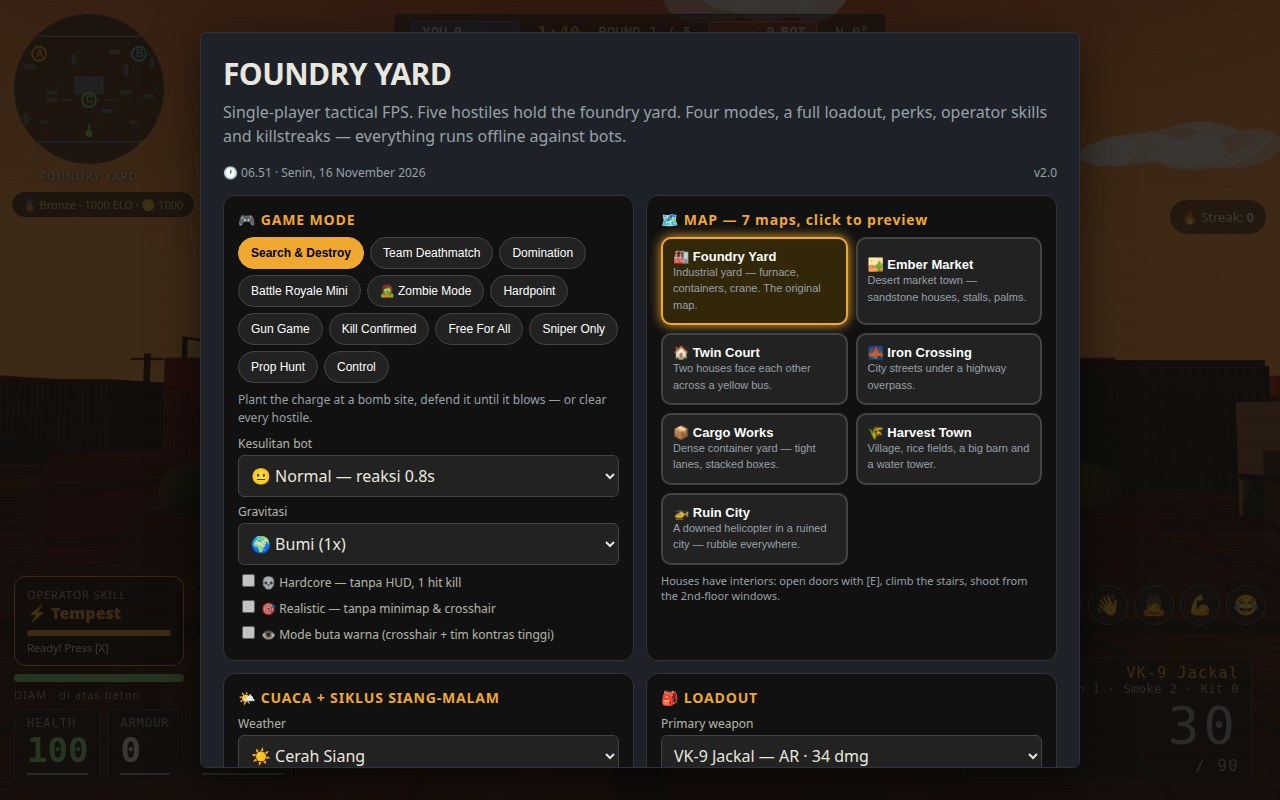
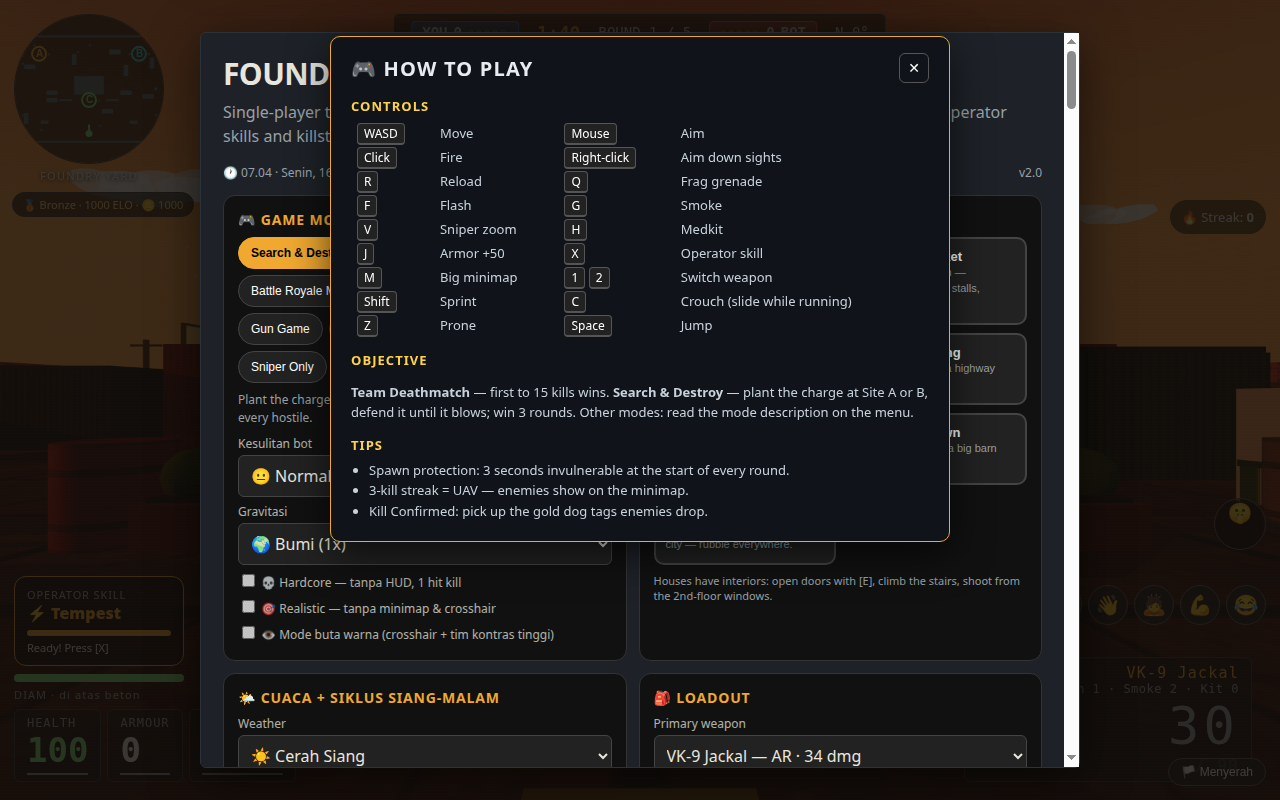
Tutorial: HOW TO PLAY panel + round-1 hints
- Start menu: HOW TO PLAY button (built in hud.js, no index.html change)
  opens a panel with full controls (WASD/mouse/R/Q/F/G/V/H/J/X/M/1-2/
  Shift/C/Z/Space), TDM first-to-15 + S&D plant/defuse objectives, and
  3 tips (3s spawn protection, 3-kill UAV, KC dog tags). Overlay is
  click-through so PLAY stays reachable; closes via X, Esc, or toggle.
- Round-1-only contextual toasts (one at a time, 4s, dismissible X):
  'WASD to move' at round start, 'Click to shoot - R to reload' when
  the first enemy is in view, 'Q for grenade - X for skill' mid-round.
  Never in round 2+. Suppressed in screenshot staging (?shot=) so
  dossier frames stay clean.
- Self-test section 46: 14 new checks, 329/329 total.
- Dossier text unchanged 163,829/163,840 (0 bytes added to the slice).
- Correction: prone is Z, not Ctrl (brief said Ctrl; player.js:19 wins).

diff --git a/game/src/hud.js b/game/src/hud.js
@@ -75,6 +75,108 @@ export function createHud(S) {
   let wheelSel = 0;
   function show(node, on) { if (node) node.hidden = !on; }
   function fmtTime(s) { s = Math.max(0, Math.ceil(s)); return `${Math.floor(s / 60)}:${String(s % 60).padStart(2, '0')}`; }
+  // ---- Tutorial: HOW TO PLAY panel + round-1 hints ----
+  // Built here (hud.js is outside the dossier text slice) so index.html /
+  // main.js stay untouched. The overlay is pointer-events:none with only
+  // the card interactive, so the PLAY button stays clickable while the
+  // panel is open. Hints are suppressed in screenshot staging (?shot=
+  // start/play/buy/end) — the staging harness is not a first-time player —
+  // but run in ?shot=test so the self-test can drive them.
+  const shotParam = new URLSearchParams(location.search).get('shot');
+  const tutHintsOff = !!shotParam && shotParam !== 'test';
+  const tutBtn = document.createElement('button');
+  tutBtn.id = 'howto-btn';
+  tutBtn.type = 'button';
+  tutBtn.className = 'cta howto-btn';
+  tutBtn.textContent = '❓ HOW TO PLAY';
+  const playBtn = $('play');
+  if (playBtn && playBtn.parentNode) playBtn.parentNode.insertBefore(tutBtn, playBtn);
+  const tutOverlay = document.createElement('div');
+  tutOverlay.id = 'howto-overlay';
+  tutOverlay.hidden = true;
+  tutOverlay.innerHTML = `<div id="howto-panel" role="dialog" aria-label="How to play">
+    <div class="howto-head"><h2>🎮 HOW TO PLAY</h2><button id="howto-close" type="button" aria-label="Close">✕</button></div>
+    <h3>CONTROLS</h3>
+    <table class="howto-keys">
+      <tr><td><kbd>WASD</kbd></td><td>Move</td><td><kbd>Mouse</kbd></td><td>Aim</td></tr>
+      <tr><td><kbd>Click</kbd></td><td>Fire</td><td><kbd>Right-click</kbd></td><td>Aim down sights</td></tr>
+      <tr><td><kbd>R</kbd></td><td>Reload</td><td><kbd>Q</kbd></td><td>Frag grenade</td></tr>
+      <tr><td><kbd>F</kbd></td><td>Flash</td><td><kbd>G</kbd></td><td>Smoke</td></tr>
+      <tr><td><kbd>V</kbd></td><td>Sniper zoom</td><td><kbd>H</kbd></td><td>Medkit</td></tr>
+      <tr><td><kbd>J</kbd></td><td>Armor +50</td><td><kbd>X</kbd></td><td>Operator skill</td></tr>
+      <tr><td><kbd>M</kbd></td><td>Big minimap</td><td><kbd>1</kbd> <kbd>2</kbd></td><td>Switch weapon</td></tr>
+      <tr><td><kbd>Shift</kbd></td><td>Sprint</td><td><kbd>C</kbd></td><td>Crouch (slide while running)</td></tr>
+      <tr><td><kbd>Z</kbd></td><td>Prone</td><td><kbd>Space</kbd></td><td>Jump</td></tr>
+    </table>
+    <h3>OBJECTIVE</h3>
+    <p><b>Team Deathmatch</b> — first to 15 kills wins. <b>Search &amp; Destroy</b> — plant the charge at Site A or B, defend it until it blows; win 3 rounds. Other modes: read the mode description on the menu.</p>
+    <h3>TIPS</h3>
+    <ul>
+      <li>Spawn protection: 3 seconds invulnerable at the start of every round.</li>
+      <li>3-kill streak = UAV — enemies show on the minimap.</li>
+      <li>Kill Confirmed: pick up the gold dog tags enemies drop.</li>
+    </ul>
+  </div>`;
+  (el.menu || document.body).appendChild(tutOverlay);
+  const tutToast = document.createElement('div');
+  tutToast.id = 'tutorial-toast';
+  tutToast.hidden = true;
+  tutToast.innerHTML = `<span id="tutorial-toast-text"></span><button id="tutorial-toast-x" type="button" aria-label="Dismiss hint">✕</button>`;
+  document.body.appendChild(tutToast);
+  const TUT_HINTS = {
+    move: '🏃 WASD to move — Shift to sprint, Space to jump',
+    shoot: '🎯 Click to shoot — R to reload',
+    nade: '💣 Q for grenade — X for operator skill',
+  };
+  let tutShown = { move: false, shoot: false, nade: false };
+  let tutQueue = [];
+  let tutCur = null;
+  let tutHideT = null;
+  let tutStartTimer = null;
+  let tutLastPhase = S.phase;
+  function tutShowToast(id) {
+    const t = document.getElementById('tutorial-toast-text');
+    if (t) t.textContent = TUT_HINTS[id];
+    tutToast.hidden = false;
+    tutCur = id;
+    clearTimeout(tutHideT);
+    tutHideT = setTimeout(() => tutHideToast(), 4000);
+  }
+  function tutHideToast() {
+    clearTimeout(tutHideT);
+    tutToast.hidden = true;
+    tutCur = null;
+  }
+  function tutTick() {
+    if (tutHintsOff) return;
+    const entering = S.phase === 'playing' && tutLastPhase !== 'playing';
+    tutLastPhase = S.phase;
+    if (entering) {
+      if (S.round.num === 1 && !tutShown.move) { tutShown.move = true; tutQueue.push('move'); }
+      tutStartTimer = S.round.timer;
+    }
+    if (S.phase !== 'playing') { if (tutCur) tutHideToast(); return; }
+    if (S.round.num !== 1) return;
+    const p = S.player;
+    if (!tutShown.shoot && p.alive) {
+      const fx = -Math.sin(p.yaw), fz = -Math.cos(p.yaw);
+      const seen = S.bots.some((b) => {
+        if (!b.alive) return false;
+        const dx = b.x - p.x, dz = b.z - p.z;
+        const d = Math.hypot(dx, dz);
+        return d < 30 && d > 0.5 && (dx * fx + dz * fz) / d > 0.5;
+      });
+      if (seen) { tutShown.shoot = true; tutQueue.push('shoot'); }
+    }
+    if (!tutShown.nade && tutStartTimer != null && S.round.timer <= tutStartTimer * 0.6) {
+      tutShown.nade = true; tutQueue.push('nade');
+    }
+    if (!tutCur && tutQueue.length) tutShowToast(tutQueue.shift());
+  }
+  tutBtn.addEventListener('click', () => { tutOverlay.hidden = !tutOverlay.hidden; });
+  tutOverlay.querySelector('#howto-close').addEventListener('click', () => { tutOverlay.hidden = true; });
+  tutToast.querySelector('#tutorial-toast-x').addEventListener('click', () => tutHideToast());
+  document.addEventListener('keydown', (e) => { if (e.key === 'Escape' && !tutOverlay.hidden) tutOverlay.hidden = true; });
   function update(world) {
     const p = S.player, w = S.weapons[S.player.weaponIdx];
     el.hp.textContent = Math.ceil(p.hp);
@@ -219,6 +321,7 @@ export function createHud(S) {
         el.interactHint.style.display = 'block';
       } else el.interactHint.style.display = 'none';
     }
+    tutTick();
     drawMinimap(world);
   }
   function drawMinimap(world) {
@@ -640,6 +743,15 @@ export function createHud(S) {
     showLevelUp, setProfileChip, setFps, setFpsGraph, setEngineStats, showScoreboard,
     showKillMessage, killConfirmVisual, bloodLens, setScopeZoom, showRadio,
     chatLog, showChatBubble, showHint, setKillcamTimer,
+    tutorial: {
+      open: () => { tutOverlay.hidden = false; },
+      close: () => { tutOverlay.hidden = true; },
+      isOpen: () => !tutOverlay.hidden,
+      toast: () => tutCur,
+      toastText: () => { const t = document.getElementById('tutorial-toast-text'); return t ? t.textContent : ''; },
+      dismiss: () => tutHideToast(),
+      reset: () => { tutShown = { move: false, shoot: false, nade: false }; tutQueue = []; tutHideToast(); tutStartTimer = null; tutLastPhase = S.phase; },
+    },
     showDeathScreen, hideDeathScreen, setDeathTimer, showVictoryScreen, hideVictoryScreen,
     applyColors, renderQuickEmotes,
     onPlay(cb) { $('play').addEventListener('click', cb); },

diff --git a/game/src/selftest.js b/game/src/selftest.js
@@ -672,6 +672,68 @@ export function runSelfTest(ctx) {
     check('Left hand sits forward of the right hand (forend vs grip)', !!amr && (amr.left.zC < amr.right.zC - 0.2));
     check('Right fingertips curl inward (-X, toward the grip)', !!amr && amr.right.creamDX < -0.03);
     check('Left fingertips curl upward (+Y, around the forend)', !!amr && amr.left.creamDY > 0.03);
+    // ---- §46: Tutorial (HOW TO PLAY panel + round-1 hints) ----
+    S.mode = 'tdm'; S.round.num = 1;
+    S.player.alive = true; S.player.hp = 100;
+    hud.tutorial.reset();
+    const howBtn = document.getElementById('howto-btn');
+    const howOver = document.getElementById('howto-overlay');
+    const howPanel = document.getElementById('howto-panel');
+    const howClose = document.getElementById('howto-close');
+    const tutToast = document.getElementById('tutorial-toast');
+    const playEl = document.getElementById('play');
+    check('HOW TO PLAY button + panel exist next to Play', !!howBtn && !!howOver && !!howPanel && !!howClose);
+    check('Panel starts closed', !!howOver && howOver.hidden === true);
+    howBtn.click();
+    check('Panel opens from the menu button', howOver.hidden === false);
+    check('Panel lists controls + objectives + tips',
+      howPanel.textContent.includes('WASD') && howPanel.textContent.includes('Team Deathmatch')
+      && howPanel.textContent.includes('Search & Destroy') && howPanel.textContent.includes('Spawn protection'));
+    // The open panel must not cover Play: its overlay is click-through and
+    // the card sits above the bottom of the menu.
+    playEl.scrollIntoView();
+    const pr = playEl.getBoundingClientRect();
+    const cr = howPanel.getBoundingClientRect();
+    const overlaps = !(cr.bottom <= pr.top || cr.top >= pr.bottom || cr.right <= pr.left || cr.left >= pr.right);
+    check('Open panel does not overlap the Play button', !overlaps);
+    howClose.click();
+    check('Panel closes with the X button', howOver.hidden === true);
+    // Round-1 hints: drive the phase transition through hud.update.
+    hud.tutorial.reset();
+    S.phase = 'menu'; S.round.num = 1; S.round.timer = 300;
+    hud.update(world);
+    S.phase = 'playing';
+    hud.update(world);
+    check('Round-1 move hint shows at round start', hud.tutorial.toast() === 'move' && tutToast.hidden === false);
+    check('Move hint text is correct', hud.tutorial.toastText().includes('WASD'));
+    document.getElementById('tutorial-toast-x').click();
+    check('Hint dismisses with the X button', hud.tutorial.toast() === null && tutToast.hidden === true);
+    // First enemy in front -> shoot hint.
+    let b0 = S.bots.find(b => b.alive);
+    if (!b0) { bots.respawn(S.bots[0]); b0 = S.bots[0]; }
+    b0.x = S.player.x - Math.sin(S.player.yaw) * 10; b0.z = S.player.z - Math.cos(S.player.yaw) * 10;
+    hud.update(world);
+    check('Shoot hint shows when the first enemy is in view', hud.tutorial.toast() === 'shoot');
+    hud.tutorial.dismiss();
+    // Mid round 1 -> grenade hint (timer at 50% of the 300s start).
+    S.round.timer = 150;
+    hud.update(world);
+    check('Grenade hint shows mid round 1', hud.tutorial.toast() === 'nade');
+    hud.tutorial.dismiss();
+    // Round 2: no hints at all, even with an enemy in view and a low timer.
+    hud.tutorial.reset();
+    S.round.num = 2; S.round.timer = 60;
+    hud.update(world);
+    check('No hints in round 2', hud.tutorial.toast() === null && tutToast.hidden === true);
+    // Panel open/close leaves the menu usable; Play click is handled without
+    // error (main.js ignores it in ?shot=test via its shot guard — the real
+    // click-through to a started round is verified in the live CDP probe).
+    S.phase = 'menu'; hud.showMenu('FOUNDRY YARD');
+    howBtn.click(); howClose.click();
+    check('Play button enabled after using the panel', !playEl.disabled);
+    playEl.click();
+    check('Clicking Play after the panel throws no error', S.phase === 'menu');
+    hud.tutorial.reset();
     world.buildMap('foundry');
     game.startRound();
   } catch (e) {

diff --git a/game/style.css b/game/style.css
@@ -439,3 +439,25 @@ button:active{transform:scale(.94)}
 /* Gunsmith slots */
 .gs-slot{display:flex;justify-content:space-between;align-items:center;gap:8px;margin:4px 0;font-size:12px}
 .gs-slot select{width:60%}
+
+/* Tutorial: HOW TO PLAY panel + round-1 toast */
+#howto-btn{display:block;width:100%;margin:0 0 10px;padding:12px 18px;background:#1c2530;color:#ffd24d;border:1px solid var(--amber);border-radius:6px;font:inherit;font-weight:700;cursor:pointer}
+#howto-btn:hover{background:#27313d}
+#howto-overlay{position:fixed;inset:0;z-index:60;display:flex;align-items:flex-start;justify-content:center;padding:36px 16px;pointer-events:none}
+#howto-overlay[hidden]{display:none}
+#howto-panel{pointer-events:auto;width:620px;max-width:94vw;max-height:76vh;overflow:auto;background:#10141a;border:1px solid var(--amber);border-radius:10px;padding:16px 20px;color:#e8ecf0;box-shadow:0 12px 40px rgba(0,0,0,.65)}
+#howto-panel h2{margin:0;font-size:20px;letter-spacing:.06em}
+#howto-panel h3{margin:14px 0 6px;font-size:13px;color:#ffd24d;letter-spacing:.08em}
+#howto-panel p,#howto-panel li{font-size:13px;line-height:1.55;color:#c8d2dc}
+#howto-panel ul{margin:4px 0;padding-left:18px}
+.howto-head{display:flex;justify-content:space-between;align-items:center}
+#howto-close{background:none;border:1px solid #555;color:#fff;border-radius:6px;width:30px;height:30px;font-size:14px;cursor:pointer}
+#howto-close:hover{border-color:var(--amber)}
+.howto-keys{width:100%;border-collapse:collapse;font-size:13px}
+.howto-keys td{padding:3px 6px;color:#c8d2dc}
+.howto-keys td:first-child,.howto-keys td:nth-child(3){white-space:nowrap}
+#howto-panel kbd{background:#222;border:1px solid #555;border-bottom-width:2px;border-radius:4px;padding:1px 6px;font:inherit;font-size:12px;color:#fff}
+#tutorial-toast{position:fixed;left:50%;bottom:250px;transform:translateX(-50%);z-index:55;display:flex;gap:12px;align-items:center;background:rgba(10,14,18,.93);border:1px solid #37c8d8;color:#eaf6ff;padding:10px 14px;border-radius:8px;font-size:14px;box-shadow:0 4px 18px rgba(0,0,0,.5);pointer-events:auto}
+#tutorial-toast[hidden]{display:none}
+#tutorial-toast-x{background:none;border:1px solid #555;color:#fff;border-radius:5px;width:24px;height:24px;font-size:12px;cursor:pointer;flex:none}
+#tutorial-toast-x:hover{border-color:#37c8d8}
